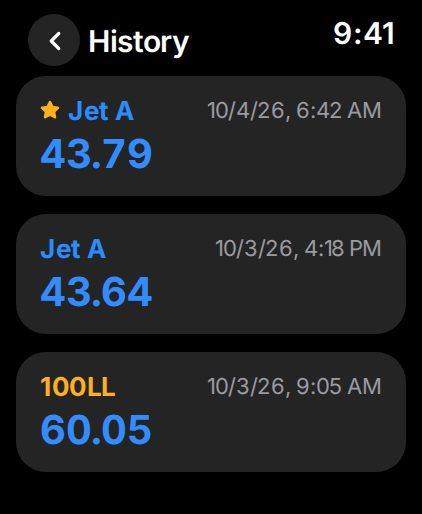
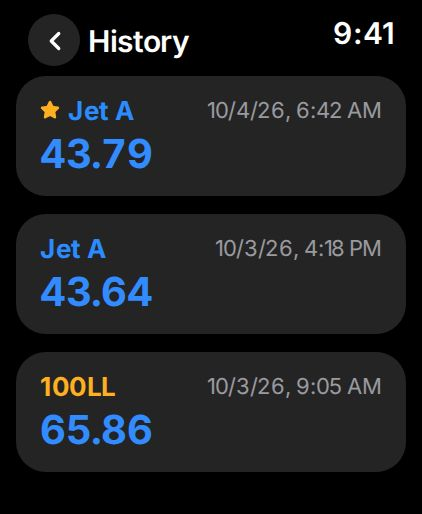
AvGrav: screenshots and images with 100LL at 60-72 API
- The AvGrav page's gallery: the slides that show 100LL, regenerated
  in avclock/AvGrav#9 (iPhone 03, 04, 05, 07, 09; iPad 02, 03, 05,
  06, 07; Apple Watch 03).
- Blog images made from them: avgrav-records and avgrav-receiving
  (line service posts) and avgrav-search (the $0.99 post), which still
  showed 100LL at 55-65 and a 60.05 reading.
- The API/SG/density conversion post said 100LL typically falls
  between 55 and 65 API; it's about 60 to 72 (710-720 kg/m3 is about
  65-68 API).
- Sitemap lastmod for the AvGrav page and that post.

Claude-Session: https://claude.ai/code/session_01NVUr9UySHW31JGGq1hx5CY

Changed region(s): [[0.154, 0.8093, 0.3697, 0.8716]]

diff --git a/avgrav-blog/api-gravity-specific-gravity-density-conversion.html b/avgrav-blog/api-gravity-specific-gravity-density-conversion.html
@@ -27,6 +27,7 @@
   "headline": "API Gravity to Specific Gravity and Density: Formulas and Table",
   "description": "How to convert API gravity to specific gravity, kg/m³, kg/L, and pounds per gallon, with a worked Jet A example and a conversion table from 30 to 70 degrees API.",
   "datePublished": "2026-10-07",
+  "dateModified": "2026-10-10",
   "publisher": {
     "@type": "Organization",
     "name": "AvGrav"
@@ -116,7 +117,7 @@
       <p>So 5,000 gallons of it weighs about 33,610 pounds. That's the same fuel as on AvGrav's result screen, which shows SG, pounds per gallon, and kg/m&sup3; at 15&deg;C (806.8 for this sample) under every reading.</p>
 
       <h2>Conversion Table</h2>
-      <p>API gravity at 60&deg;F and its equivalents, in steps of two degrees. Jet A typically falls between about 36 and 51&deg; API, diesel between 30 and 42, and 100LL and mogas between 55 and 65.</p>
+      <p>API gravity at 60&deg;F and its equivalents, in steps of two degrees. Jet A typically falls between about 36 and 51&deg; API, diesel between 30 and 42, 100LL between 60 and 72, and mogas between 55 and 65.</p>
       <div class="table-wrap">
         <table>
           <tr><th class="num">API</th><th class="num">SG 60/60&deg;F</th><th class="num">kg/m&sup3; 60&deg;F</th><th class="num">kg/L</th><th class="num">lb/US gal</th></tr>
